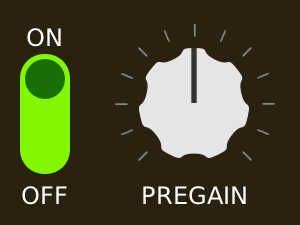
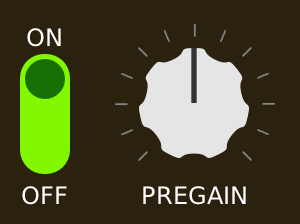
Test showing scaled down images

diff --git a/README.md b/README.md
@@ -36,6 +36,10 @@ The little icon on the left side allows to turn on/off the Amp Model and Cabinet
 
 ![screenshot](docs/Screenshot-files.png "Screenshot-files")
 
+A quick model pack can be downloaded from [our Google Drive folder](https://drive.google.com/drive/folders/18MwNhuo9fjK8hlne6SAdhpGtL4bWsVz-).
+
+Check out the [MOD Forum's Neural Modelling section](https://forum.mod.audio/c/neural/62) for an online place for discussion, sharing and all things related to Amp Models.
+
 #### Controls ####
 
 From left to right:
@@ -47,7 +51,7 @@ Integrates with the host provided bypass controls where possible.
 
 Pre-Gain attenuates the input signal before sending it to the Amp Model.
 
-![screenshot](docs/Screenshot-params-1.png "Screenshot-params-1")
+<img width="112" alt="image" src="https://raw.githubusercontent.com/AidaDSP/aida-x/main/docs/Screenshot-params-1.png">
 
 2. EQ tone controls (part 1)
 
